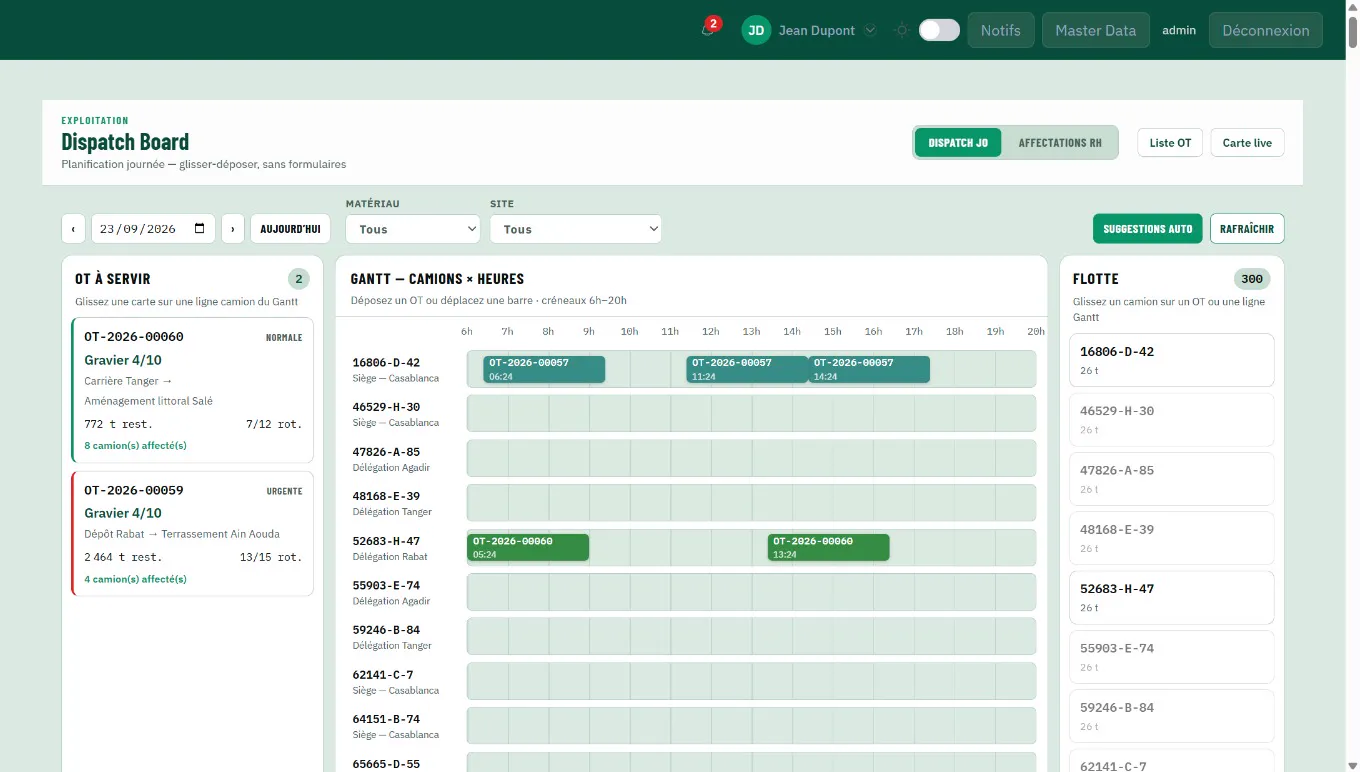
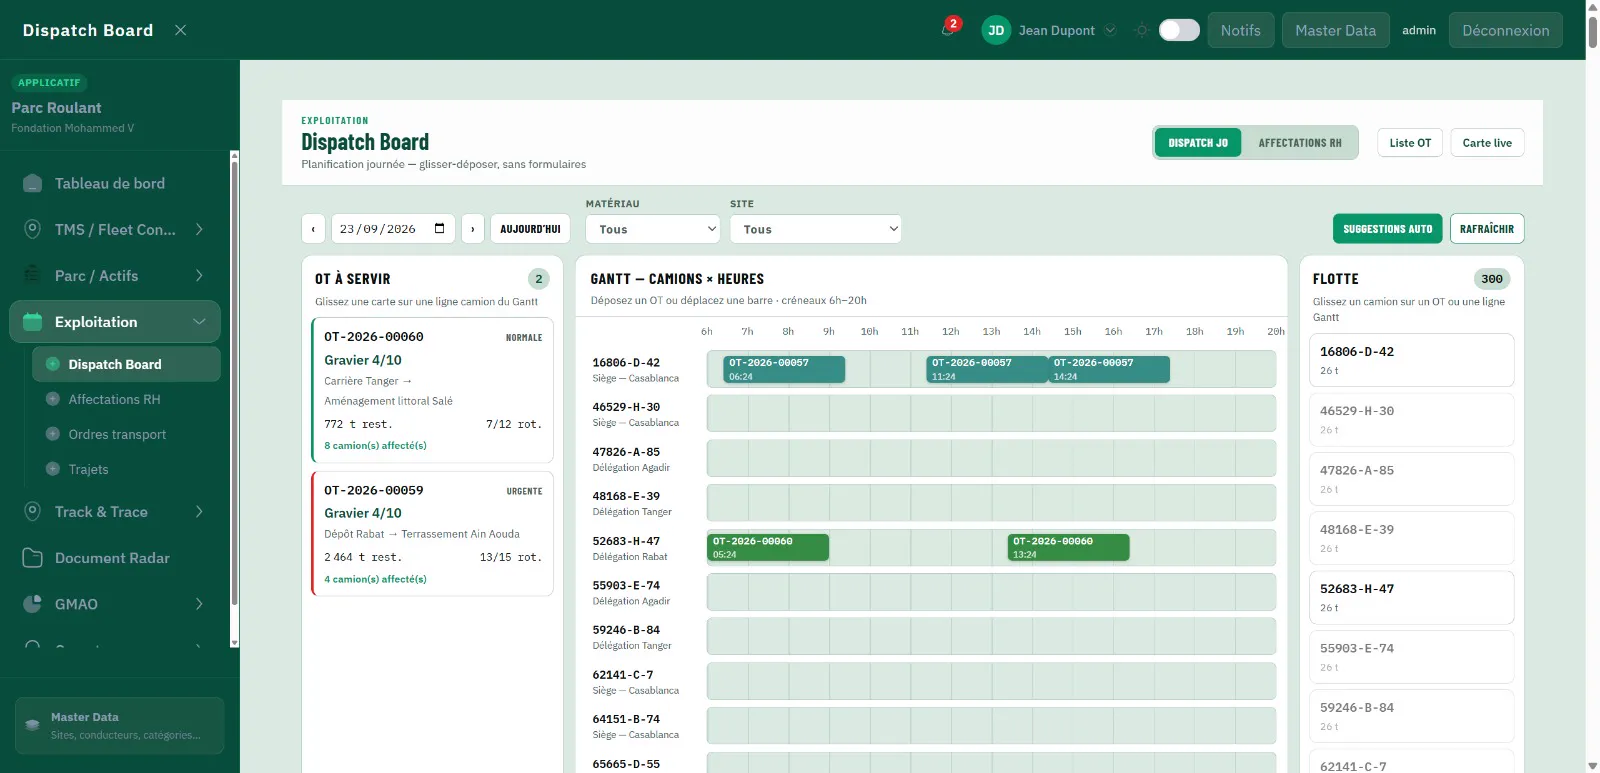
feat(control-tower): capture dispatch board non recadrée
La barre latérale (nom d'une organisation) avait été coupée par
précaution avant de savoir que les données de la démonstration sont
fictives ; le nom figure déjà publiquement dans la liste de clients de
l'accueil, donc plus de raison de le masquer sur cette seule capture.
Image republiée en plein cadre (1600×773, au lieu de 1360×772 recadrée),
dimensions mises à jour dans controlTower.ts.

Vérifié : build propre, grille de la galerie (7 captures) toujours bien
disposée en 2 colonnes.

diff --git a/src/data/controlTower.ts b/src/data/controlTower.ts
@@ -31,7 +31,7 @@ export const CONTROL_TOWER_SCREENS = [
   { src: '/images/control-tower/tableau-direction.webp', w: 1263, h: 1600, title: 'Tableau de bord direction', alt: "Tableau de bord direction : tonnage livré, rotations, disponibilité du parc, production sur 7 jours, alertes à traiter, attente par site, niveaux des citernes, classement éco-conduite et véhicules immobilisés" },
   { src: '/images/control-tower/gmao-3d-maintenance.webp', w: 1600, h: 774, title: 'GMAO 3D : organes à maintenir', alt: "GMAO 3D d'un camion : batterie, pneus, filtres et circuit hydraulique signalés selon le kilométrage restant avant maintenance" },
   { src: '/images/control-tower/citernes-gasoil.webp', w: 1600, h: 774, title: 'Citernes de gasoil sur sites', alt: "Suivi des citernes de gasoil par site : stock total, taux de remplissage, consommation sur 30 jours, autonomie et écarts entre consommation théorique et sonde" },
-  { src: '/images/control-tower/dispatch-board-gantt.webp', w: 1360, h: 772, title: 'Dispatch board : planification par glisser-déposer', alt: "Dispatch board : ordres de transport à servir, Gantt camions par heure et flotte disponible, affectation par glisser-déposer" },
+  { src: '/images/control-tower/dispatch-board-gantt.webp', w: 1600, h: 773, title: 'Dispatch board : planification par glisser-déposer', alt: "Dispatch board : ordres de transport à servir, Gantt camions par heure et flotte disponible, affectation par glisser-déposer" },
   { src: '/images/control-tower/document-radar-conformite.webp', w: 1360, h: 772, title: 'Document radar : conformité conducteurs', alt: "Document radar : suivi de conformité des permis et documents de la flotte, documents en vigueur, valides et proches de l'expiration, fiche détaillée par conducteur" },
 ]
 
